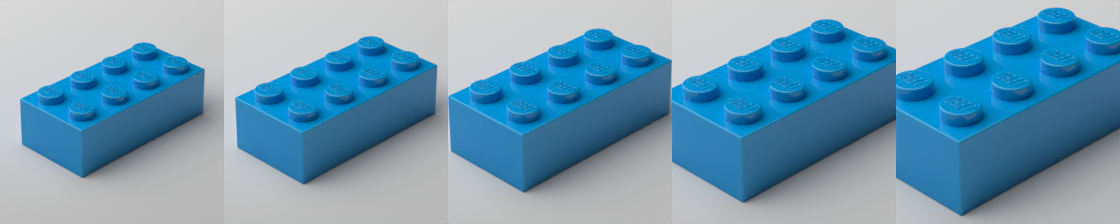
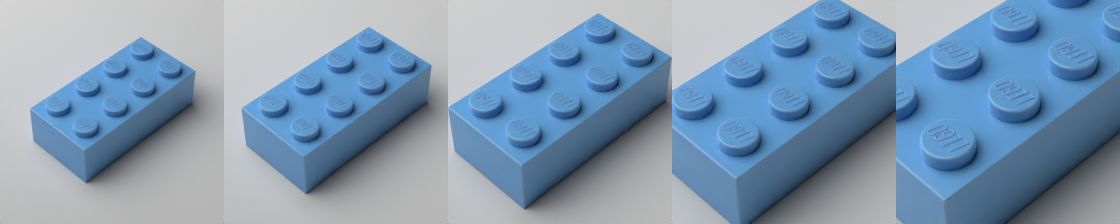
Updated docs

diff --git a/docs.py b/docs.py
@@ -11,7 +11,7 @@ print(f"Prepending {dir_path} to Python path...")
 sys.path.insert(0, dir_path)
 
 from lib.image_utils import grid
-from lib.colors import Color
+from lib.colors import RebrickableColors
 from lib.renderer.render_options import RenderOptions, Quality, LightingStyle, Look
 from lib.renderer.renderer import Renderer
 
@@ -22,7 +22,7 @@ default_options = RenderOptions(
     blender_filename="renders/test.blend",
     quality=Quality.NORMAL,
     lighting_style=LightingStyle.DEFAULT,
-    part_color=Color.BLUE.value,
+    part_color=RebrickableColors.MediumBlue.value.blender,
     zoom=0.6,
     part_rotation=(0, 0, 0),
 )
@@ -41,17 +41,24 @@ image = grid(images, 2, 5)
 image.save("docs/parts.png")
 
 colors = [
-    Color.BRIGHT_LIGHT_ORANGE, Color.YELLOW, Color.ORANGE, Color.DARK_ORANGE, Color.RED,
-    Color.BRIGHT_PINK, Color.DARK_PINK, Color.MAGENTA, Color.LAVENDER, Color.MEDIUM_LAVENDER,
+    RebrickableColors.BrightLightYellow,
+    RebrickableColors.Yellow,
+    RebrickableColors.BrightLightOrange,
+    RebrickableColors.Lavender,
+    RebrickableColors.MediumLavender,
+    RebrickableColors.DarkPurple,
+    RebrickableColors.BrightPink,
+    RebrickableColors.DarkPink,
+    RebrickableColors.Magenta,
 ]
 for i, color in enumerate(colors):
     options = copy(default_options)
     options.image_filename = f"renders/docs{i}.png"
-    options.part_color = color.value
+    options.part_color = color.value.blender
     renderer.render_part("3001", options)
 
 images = [Image.open(f"renders/docs{i}.png") for i, _ in enumerate(colors)]
-image = grid(images, 2, 5)
+image = grid(images, 3, 3)
 image.save("docs/colors.png")
 
 lighting_styles = [
@@ -107,7 +114,7 @@ image.save("docs/zooms.png")
 for i, part in enumerate(parts):
     options = copy(default_options)
     options.image_filename = f"renders/docs{i}.png"
-    options.part_color = Color.WHITE.value
+    options.part_color = RebrickableColors.White.value.blender
     options.look = Look.INSTRUCTIONS
     options.quality = Quality.DRAFT # cleaner without LEGO on studs
     renderer.render_part(part, options)

diff --git a/lib/colors.py b/lib/colors.py
@@ -26,7 +26,7 @@ class RebrickableColor:
     # However they are only available in for the main Lego color
     @property
     def blender(self):
-        self.bartneck_blender or self.rebrickable_blender
+        return self.bartneck_blender or self.rebrickable_blender
 
     def _hex_to_rgb(self, hex_str):
         # Ensure the hex string starts with #
